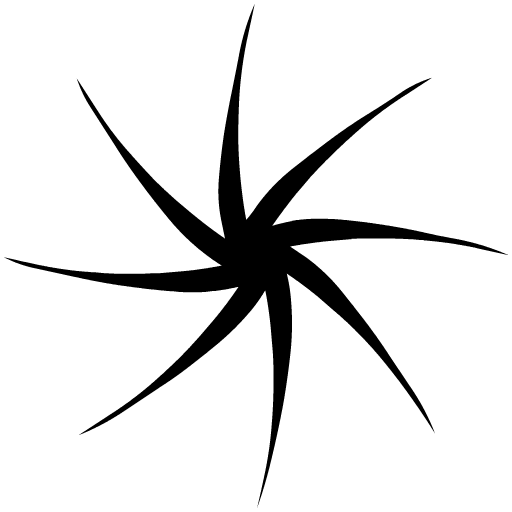
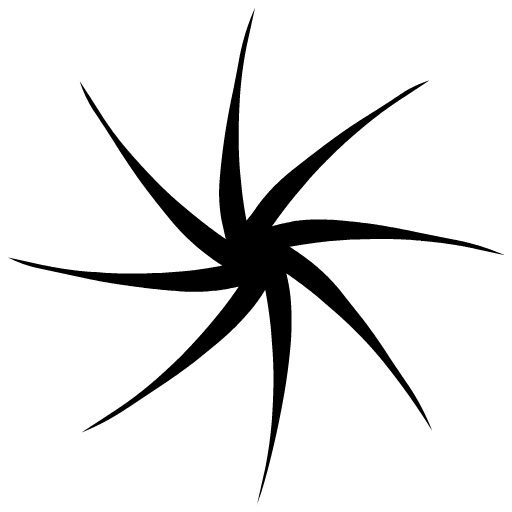
The vortex now has eyes.
git-svn-id: svn://10.0.50.55/puffbomb/trunk@2510 d14347b8-48fd-0310-9e84-97907d434d85

diff --git a/Code/Game/PuffBOMB/Objects/ExitVortex/ExitVortex.h b/Code/Game/PuffBOMB/Objects/ExitVortex/ExitVortex.h
@@ -9,11 +9,12 @@
 // - ------------------------------------------------------------------------------------------ - //
 class cExitVortex: public Engine2D::cPassiveCommonClockObject {
 public:
-	//Real RotationClock;
+	cAnimator Face;
 
 public:
 	cExitVortex( const Vector2D& _Pos ) :
-		cPassiveCommonClockObject( "LargeVortex.anim", _Pos )
+		cPassiveCommonClockObject( "LargeVortex.anim", _Pos ),
+		Face( "VortexEyes.anim" )
 	{
 		BoundingRect = Engine2D::cPhysics::BoundingRectType::Pair( _Pos - Vector2D( 32, 32 ), _Pos + Vector2D( 32, 32 ) );
 	}

diff --git a/Code/Game/PuffBOMB/Objects/ExitVortex/ExitVortex.cpp b/Code/Game/PuffBOMB/Objects/ExitVortex/ExitVortex.cpp
@@ -56,6 +56,9 @@ void cExitVortex::Draw() {
 		Animator.DrawQuad( Pos, Matrix2x2::Rotate( CommonClock ) );
 		Animator.DrawQuad( Pos, Matrix2x2::RotateScale( (CommonClock + Real( 0.0625 )), Real( 0.8 ) ) );
 		Animator.DrawQuad( Pos, Matrix2x2::RotateScale( (CommonClock + Real( 0.0625 )) * Real( 2 ), Real( 0.7 ) ) );
+		if ( Face.Animation ) {
+			Face.DrawQuad( Pos );
+		}
 	}
 }
 // - ------------------------------------------------------------------------------------------ - //
